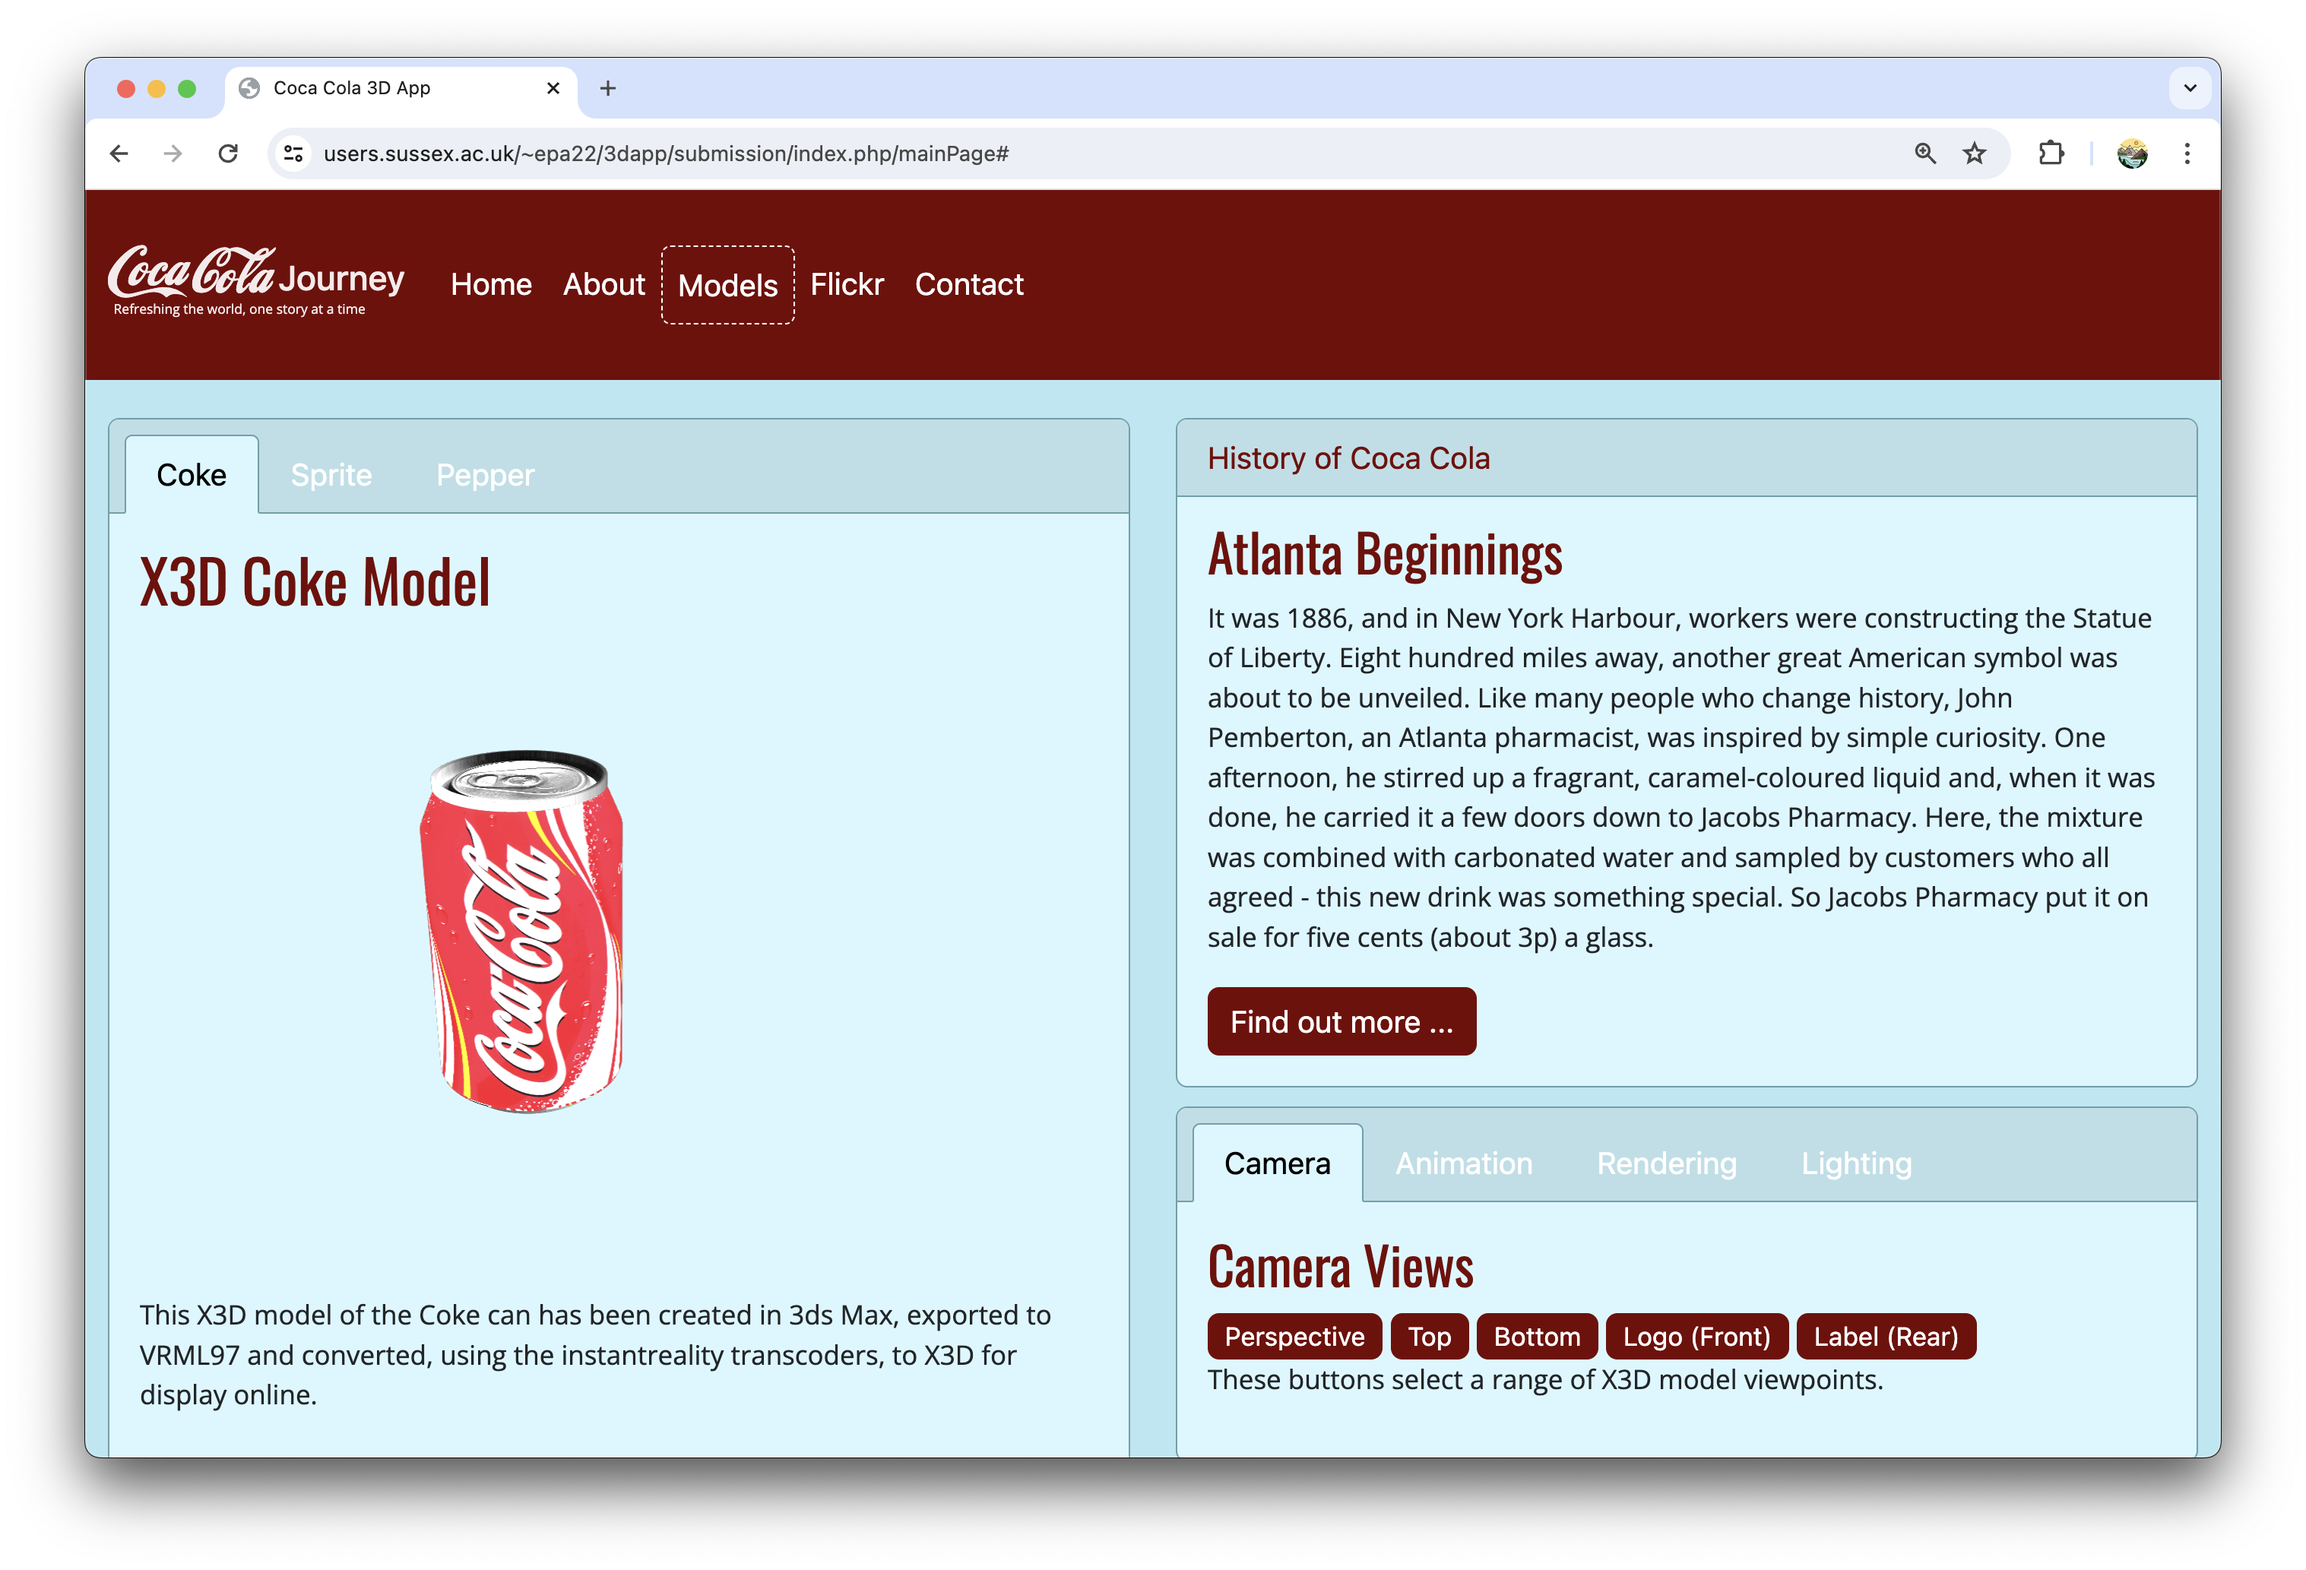
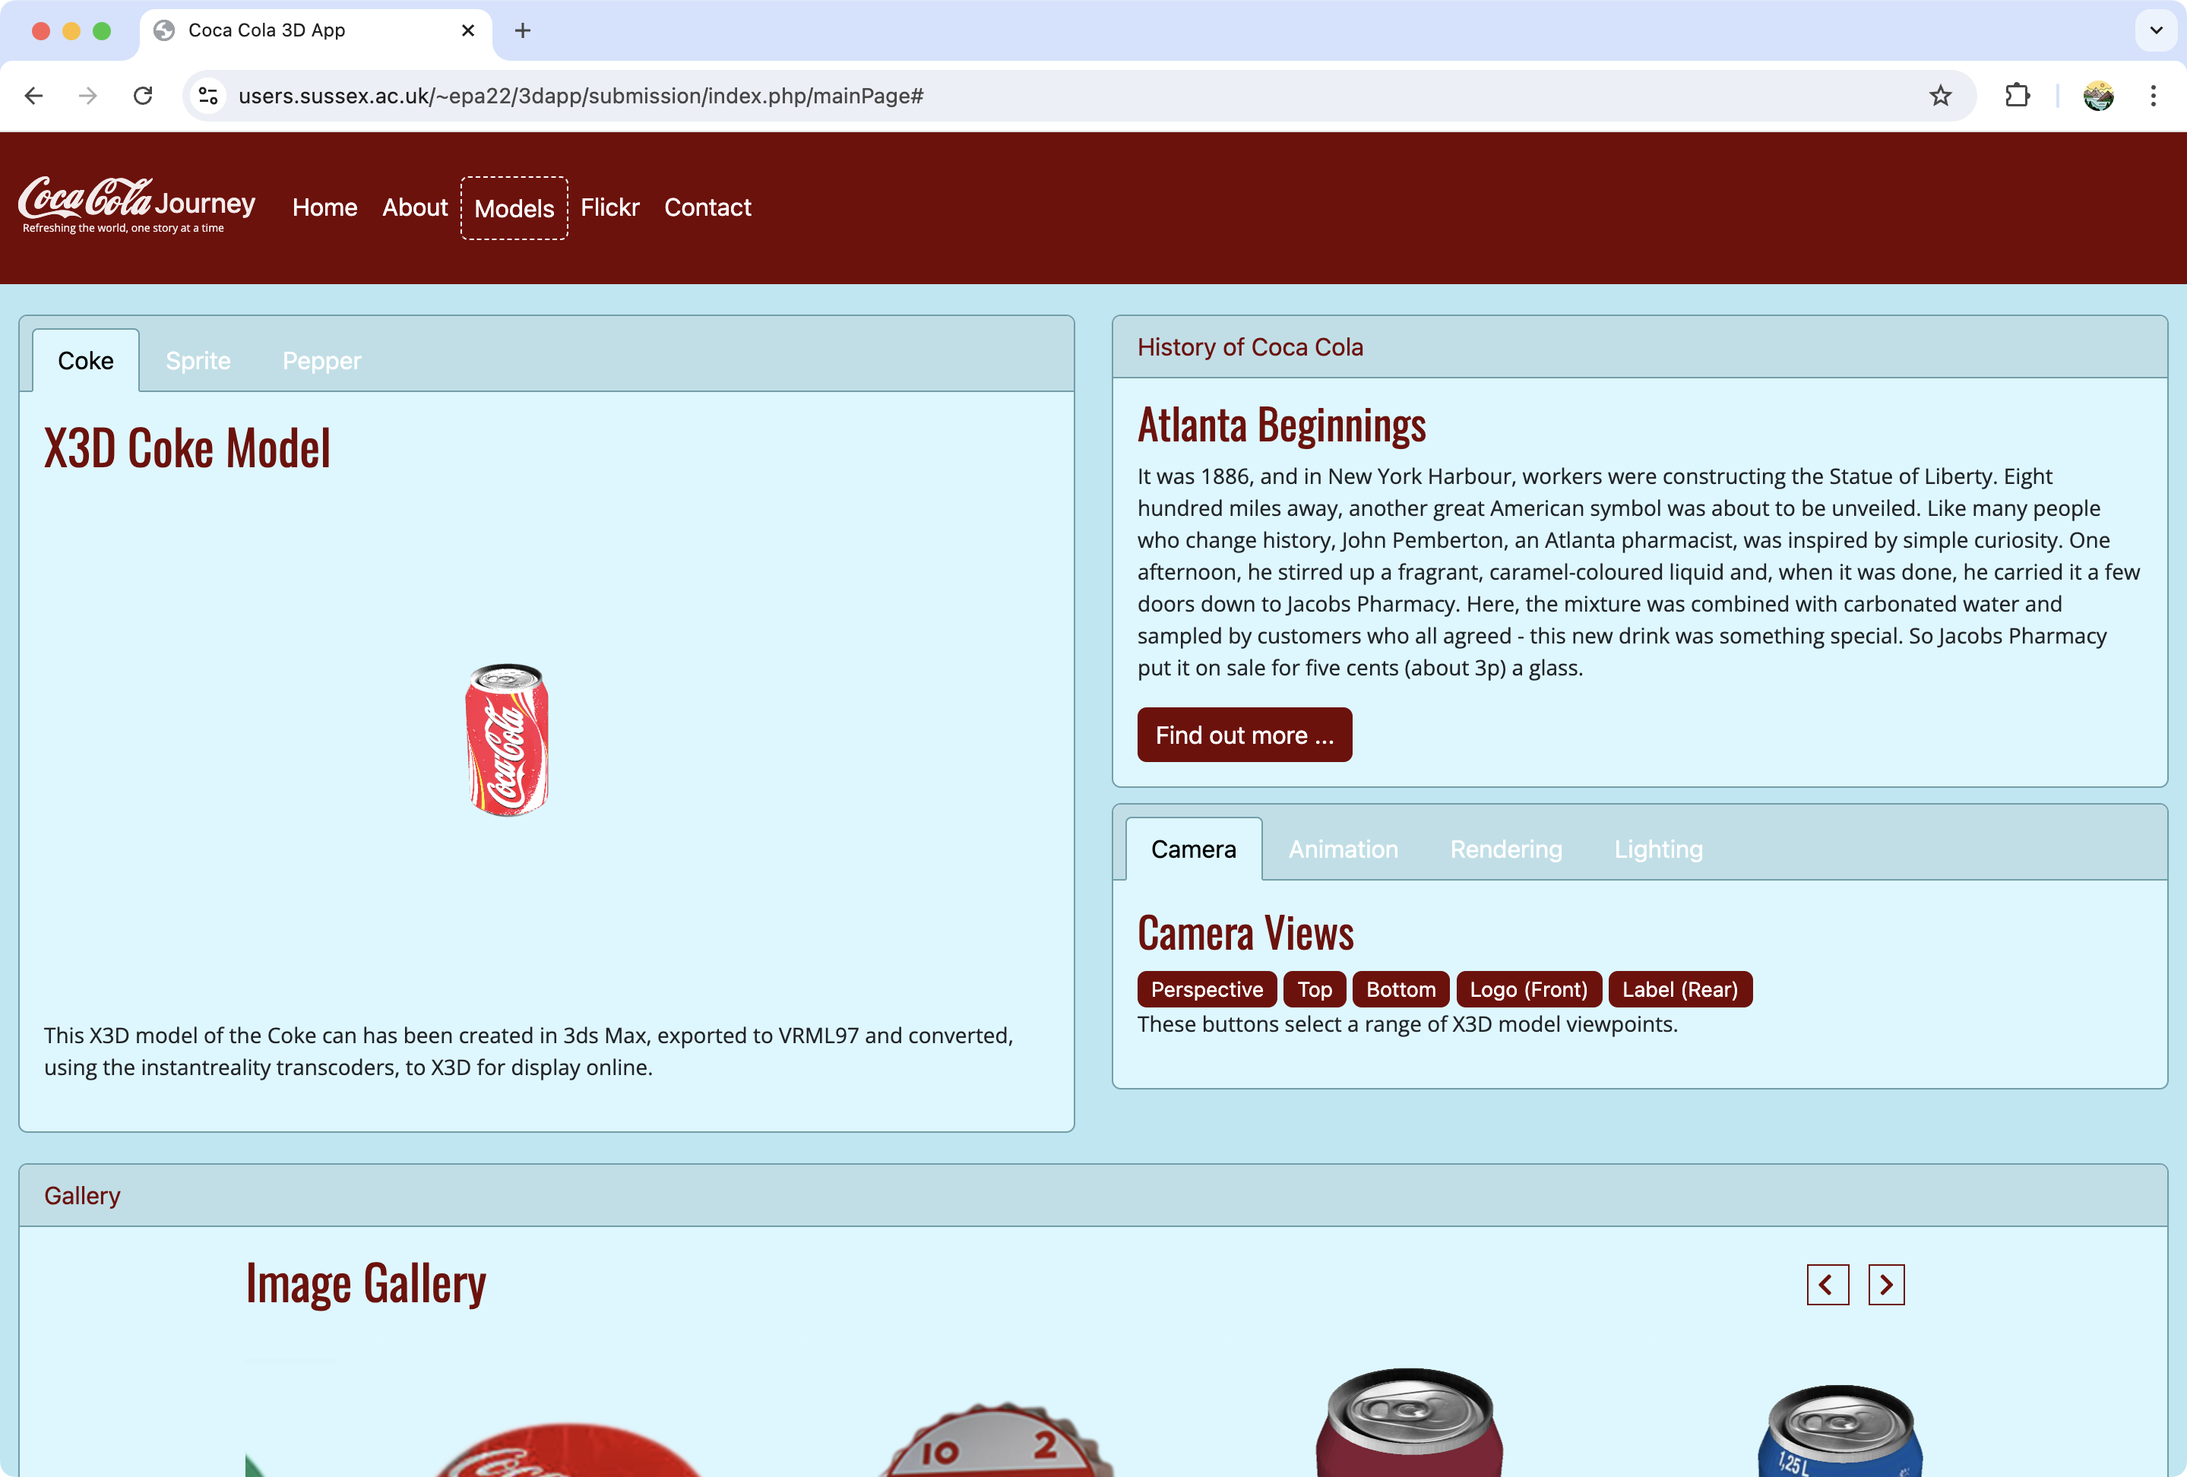
Update screenshots and README

diff --git a/README.md b/README.md
@@ -2,4 +2,13 @@
 
 > 3rd Year University module. This repository contains lab work from throughout the module, as well as my final coursework submission.
 
-![Screenshot](screenshot.png)
+<table>
+<tr>
+<td>
+<img src="screenshot.png">
+</td>
+<td>
+<img src="screenshot_1.png">
+</td>
+</tr>
+</table>
